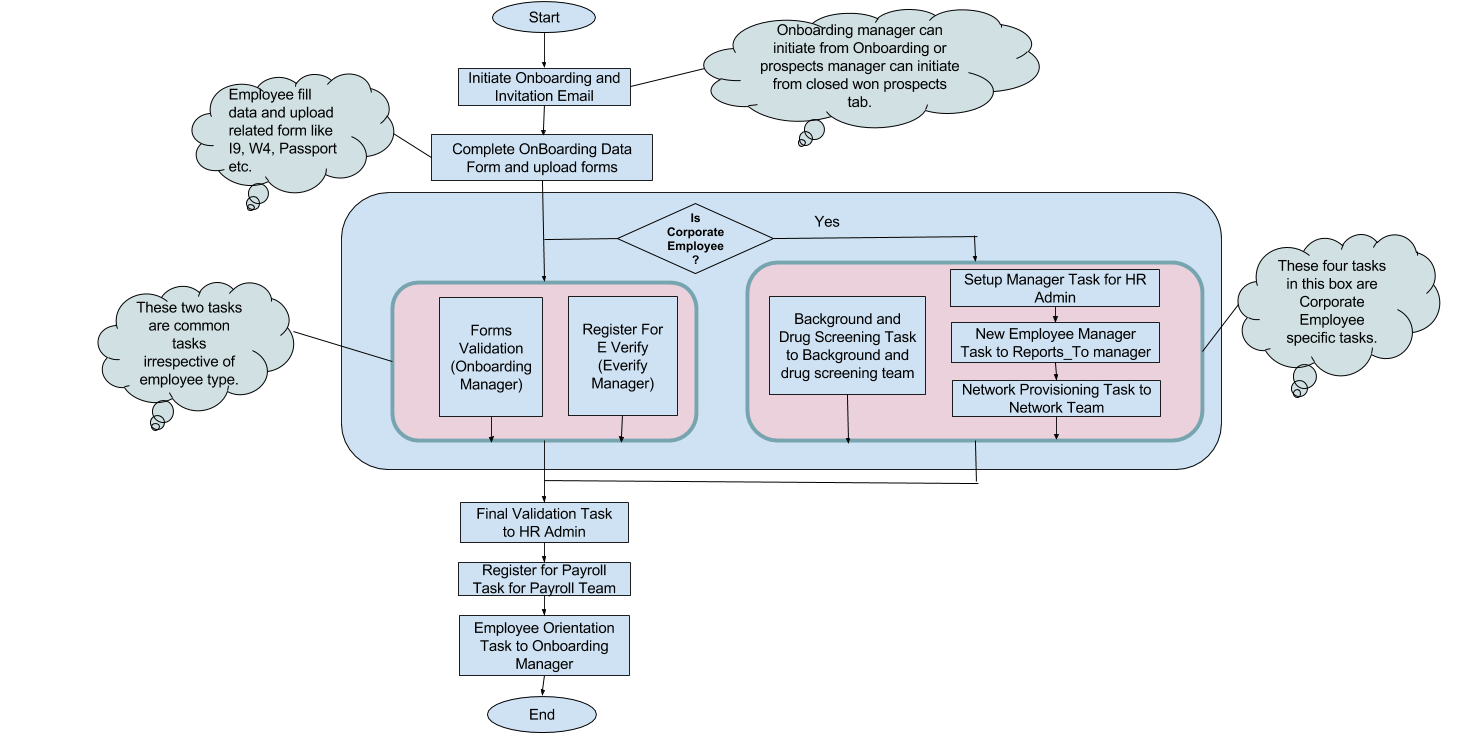
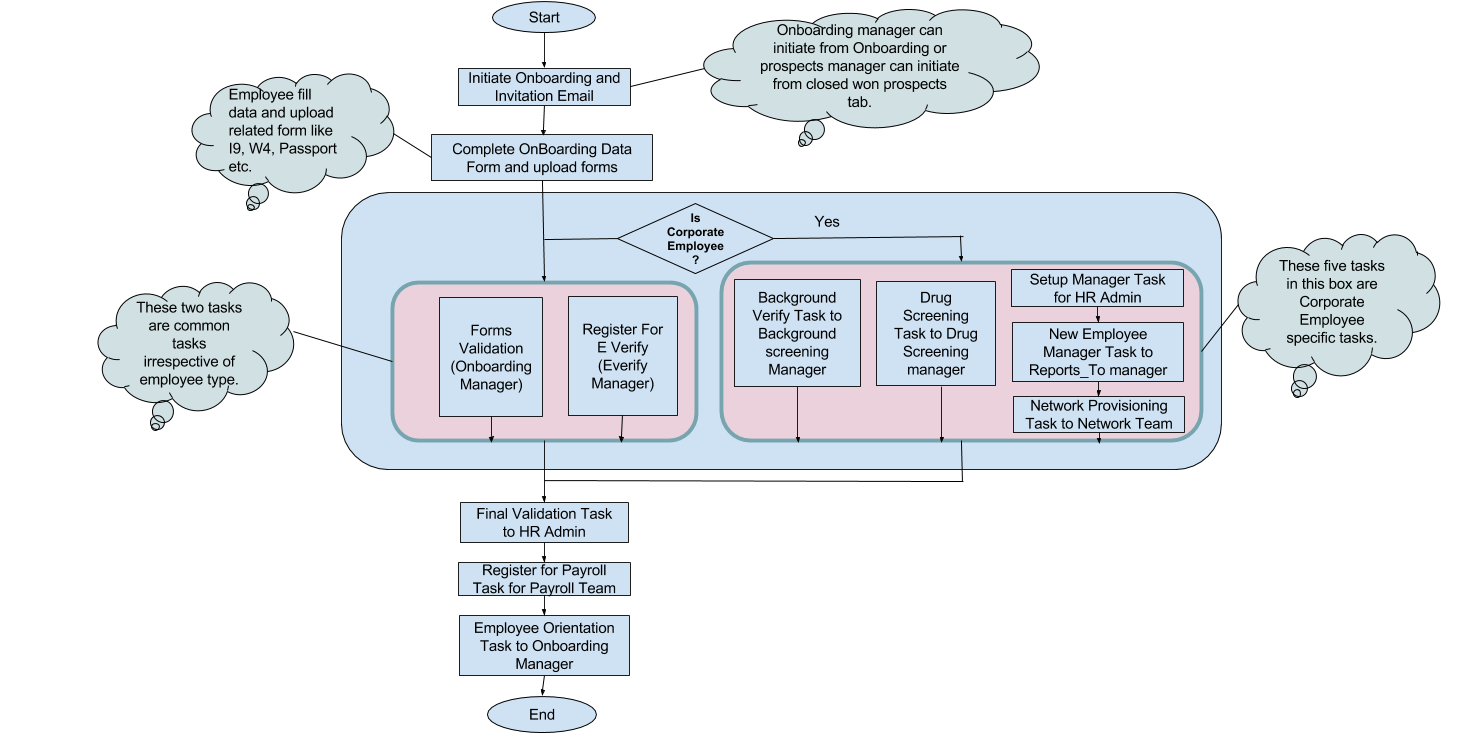
Updated on boarding process view diagram with description for the new separated tasks background screening and drug screening.

Changed region(s): [[0.4604, 0.3117, 0.8288, 0.6545], [0.8595, 0.3428, 0.9516, 0.374], [0.6446, 0.6233, 0.6753, 0.6545]]

diff --git a/office-master/office-doc/src/site/markdown/office/onboarding/employee-onboarding.md b/office-master/office-doc/src/site/markdown/office/onboarding/employee-onboarding.md
@@ -1,4 +1,4 @@
-How To Onboard An Employee:
+  How To Onboard An Employee:
 ----
 - [Login to Portal](../../office/forgot-password.html "Login").
 - Only **OnBoarding Manager** can initiate OnBoarding by navigating through **My Office** -> **OnBoarding** -> **Employee Onboarding**.
@@ -12,8 +12,9 @@ How To Onboard An Employee:
     - The OnBoarding record status is **Pending_Document_Verification**
     - If the onboarding employee is **Corporate Employee**, parallelly,
         - **OnBoarding Manager** will get **Forms And Data Validation Task**
-        - **Background Screening Manager** will get **Background And Drug Screening Task**
         - **E-Verify Manager** will get **E-Verify Task**
+        - **Background Screening Manager** will get **Background Verify Task**
+        - **Drug Screening Manager** will get **Drug Screening Task**
         - **HR Admin** will get **Setup Manager Task**
         - If **Setup Manager Task** completes, Employee manager will get **New Employee manager task**.
         - Employee **Reports_To** manager will provide **Roles and Responsibilities** and **Requirements** (**For Network Department sake**) and complete the task.
